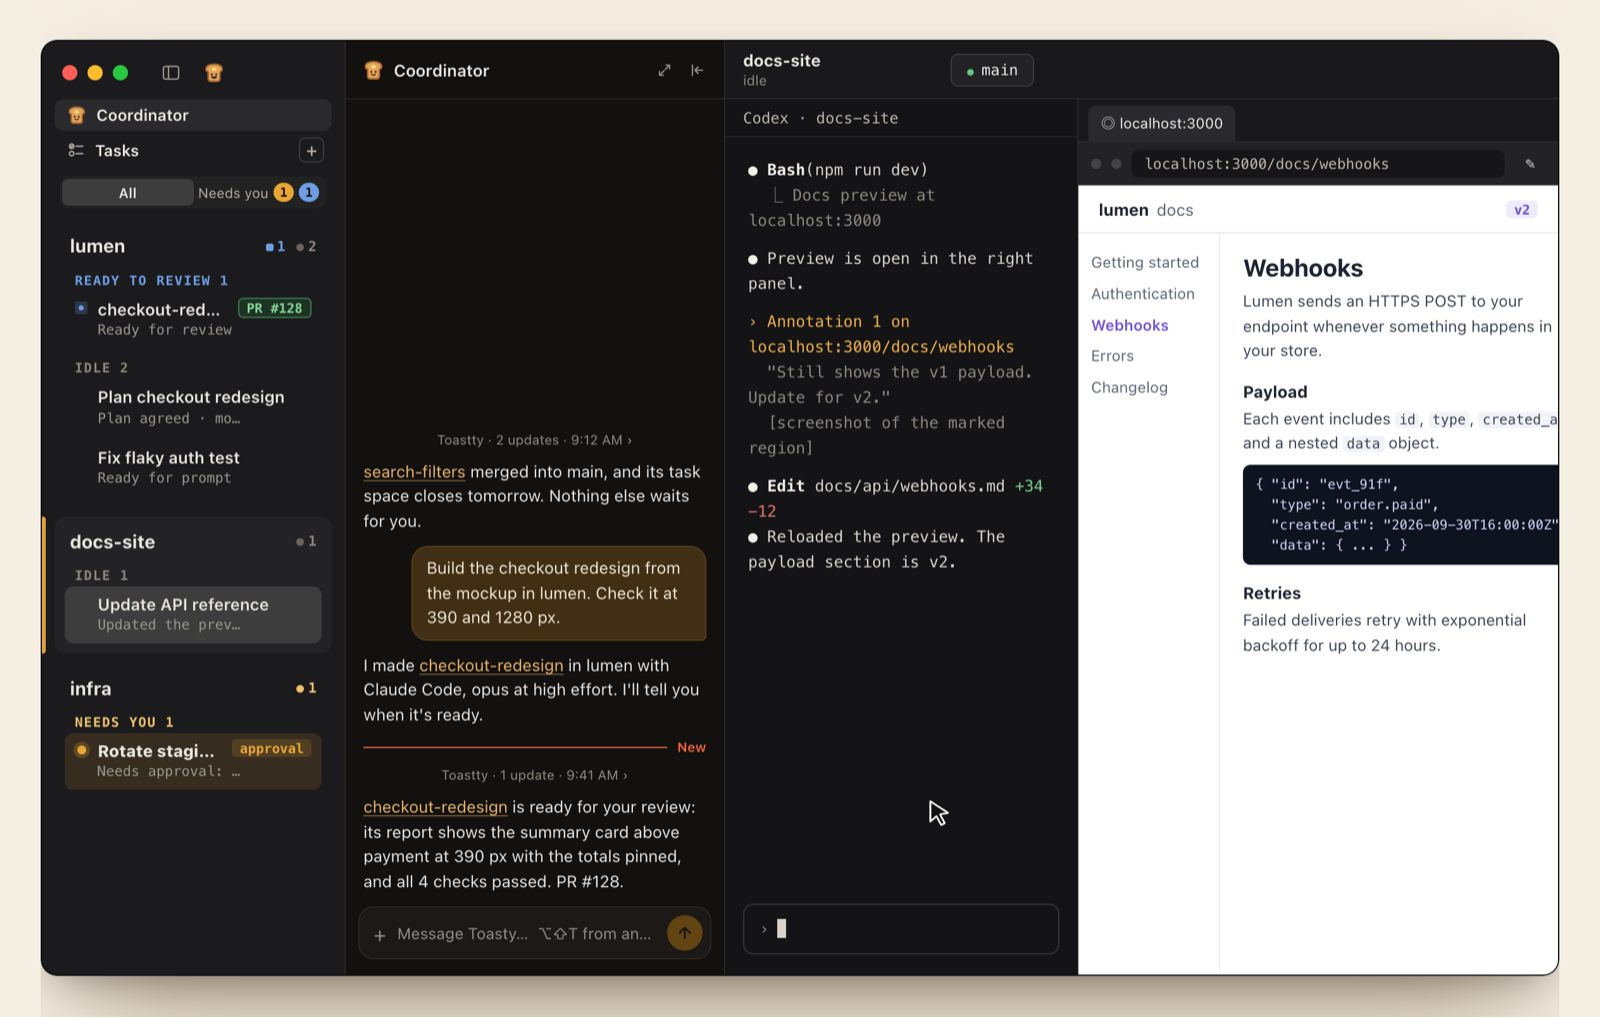
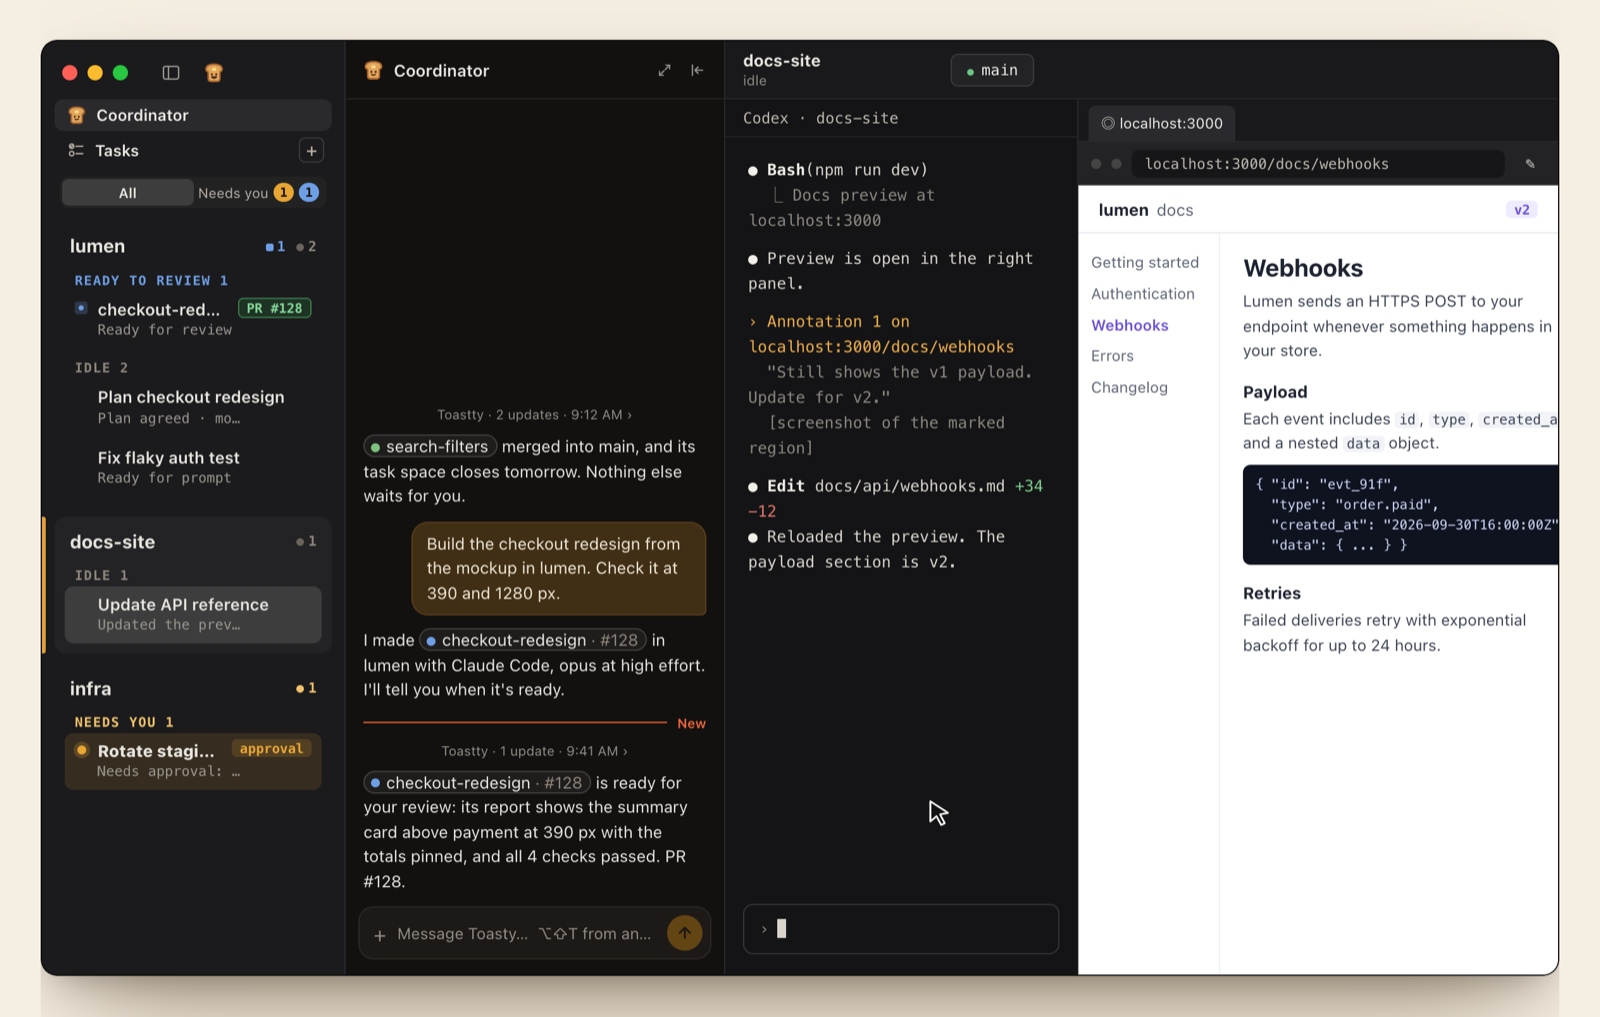
Render the hero and workflow images from the website at c74ff76b
The website task changed its page after the first render: task links in the
coordinator chat are chips with a stage dot and a PR number, and quick entry
shows icon pills, esc and Create. The phone still did not change. Workflow 1's
caption now names the Create and Send buttons.

Claude-Session: https://claude.ai/code/session_01Dn8sFgjHj5xgoQtBufLaxS

Changed region(s): [[0.2188, 0.3963, 0.4375, 0.884]]

diff --git a/README.md b/README.md
@@ -42,7 +42,7 @@ Updating from 0.9.x? See [what changes](docs/tasks.md#updating-from-09x). To bui
 
 <table>
   <tr>
-    <td width="33%"><img src="docs/assets/readme/workflow-1.png" alt="The quick entry panel over another app, with a message for the coordinator and an attached screenshot"></td>
+    <td width="33%"><img src="docs/assets/readme/workflow-1.png" alt="The quick entry panel over another app, with a message for the coordinator, an attached screenshot, and its Create and Send buttons"></td>
     <td width="33%"><img src="docs/assets/readme/workflow-2.png" alt="The sidebar's project card with the checkout-redesign task under Ready to review, its PR #128 chip beside it"></td>
     <td width="33%"><img src="docs/assets/readme/workflow-3.png" alt="The checkout-redesign task space open, with the Merge PR #128 button in its top bar, the agent's terminal, and its verification report in the right panel"></td>
   </tr>
